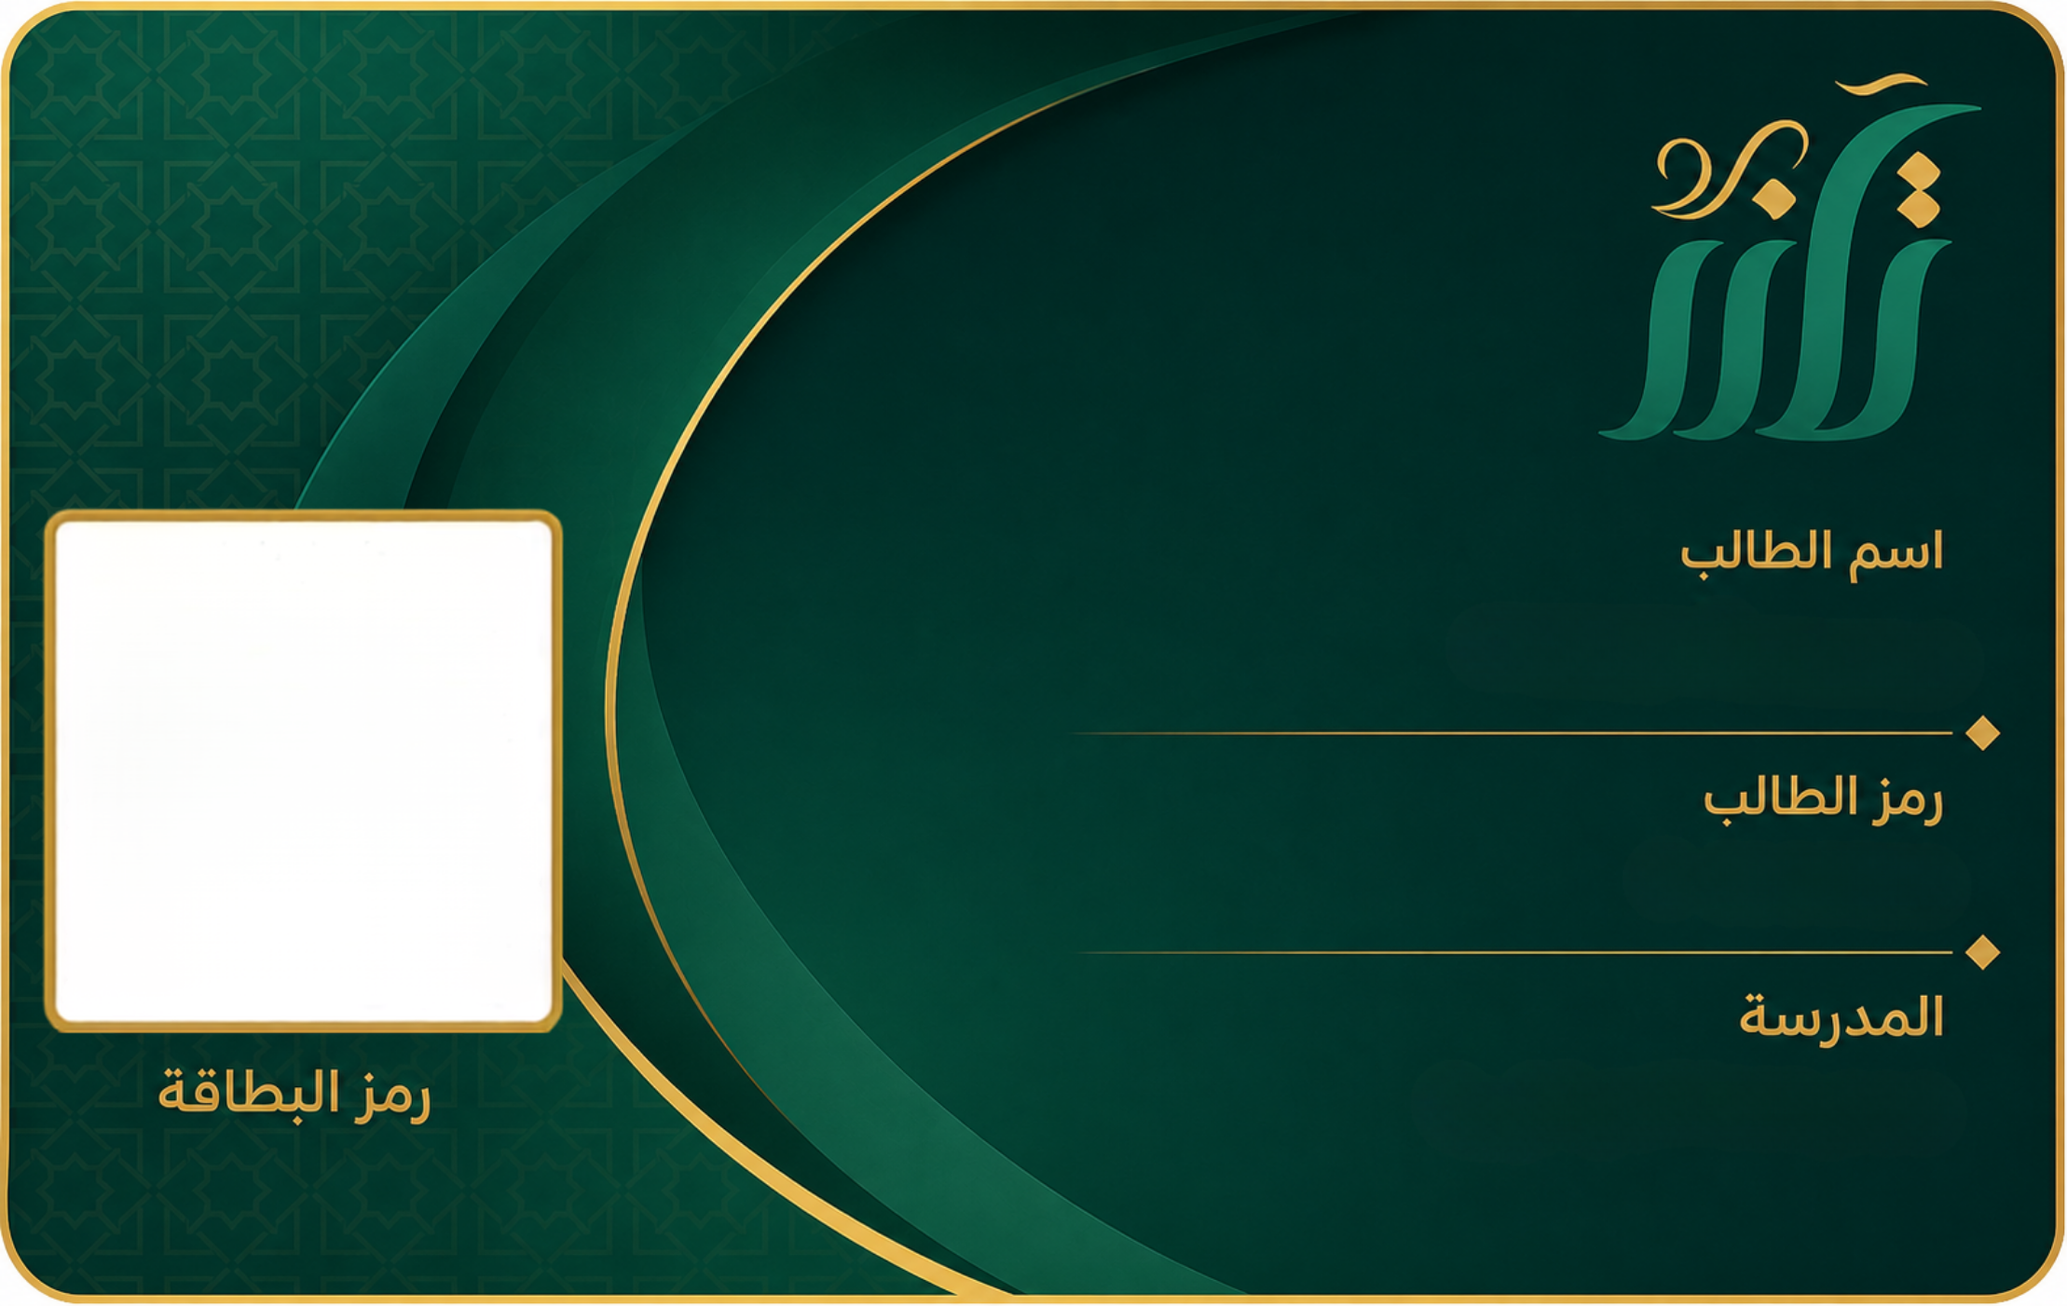
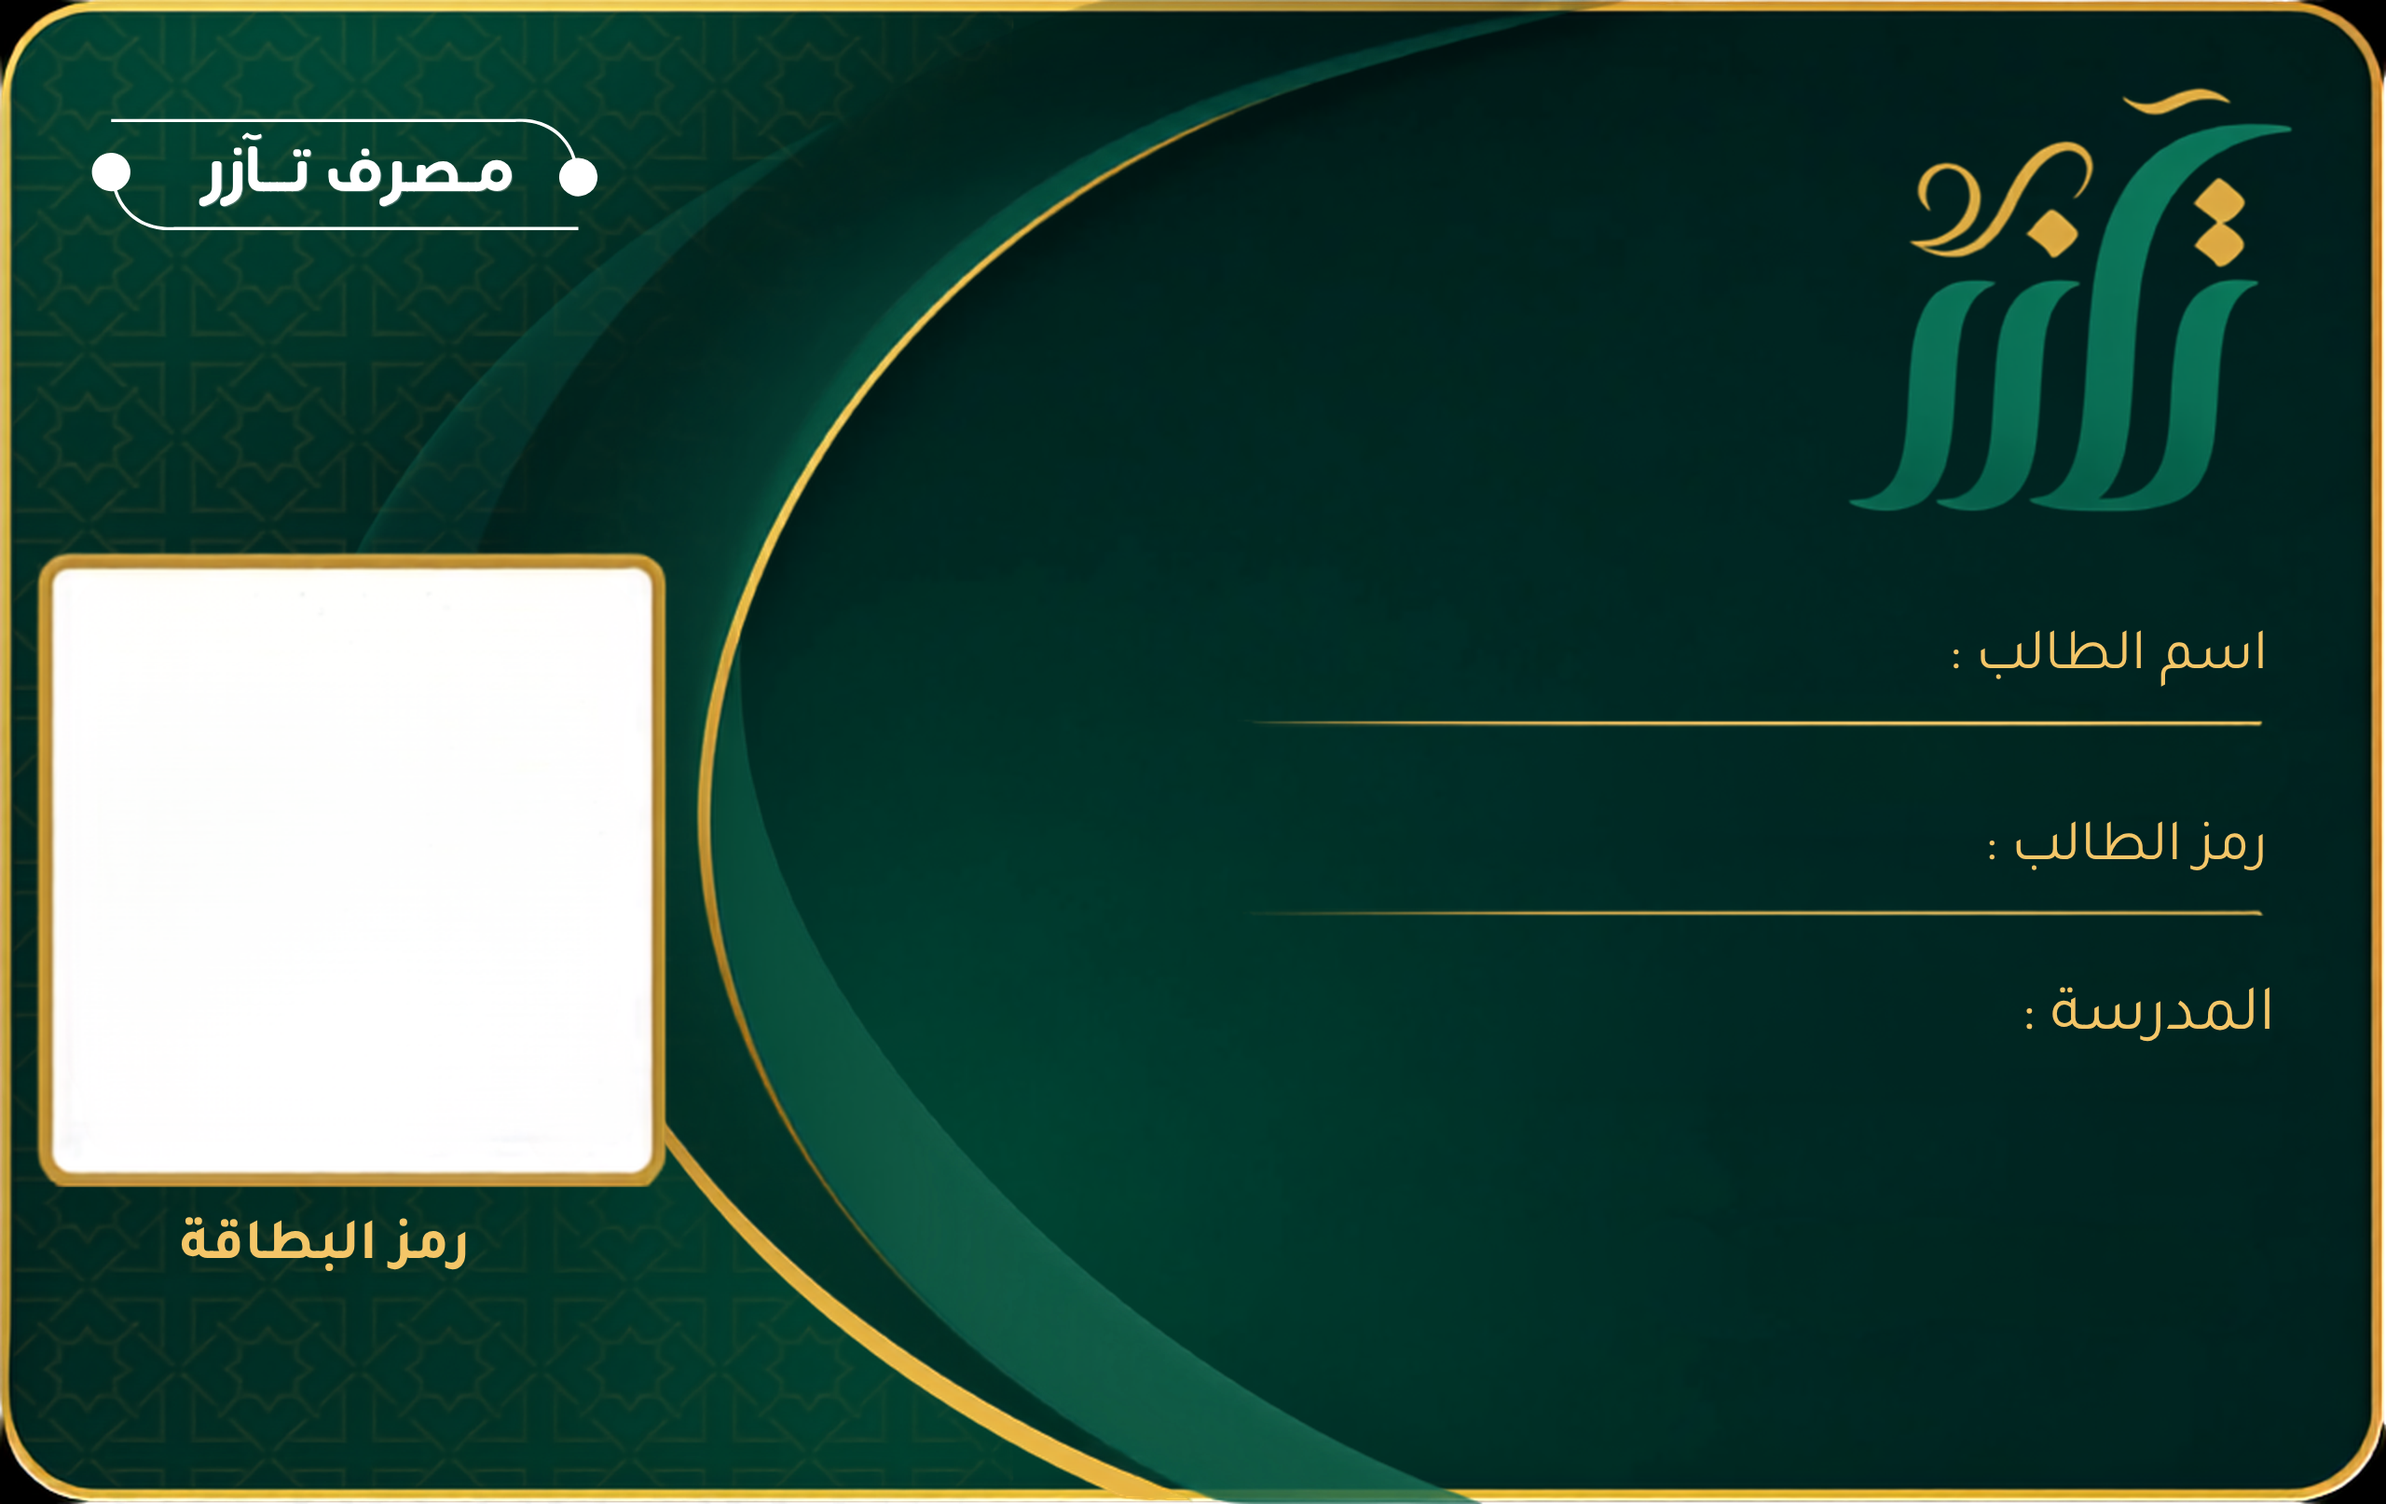
Update student card template alignment

diff --git a/frontend/app/styles.css b/frontend/app/styles.css
@@ -58,11 +58,11 @@ tbody tr:hover{background:#fbf8ef}
 .student-print-card:before,.student-print-card:after{display:none}
 .student-card-background{position:absolute;z-index:0;inset:0;width:100%;height:100%;object-fit:fill;display:block;pointer-events:none}
 .student-card-info{position:absolute;z-index:2;inset:0;display:block;min-width:0;text-align:right;direction:rtl;text-shadow:0 2px 8px rgba(0,0,0,.3)}
-.student-card-info strong{position:absolute;top:24.7mm;right:6.2mm;max-width:47mm;color:#fff;font-size:var(--student-name-size,14.5pt);line-height:1.08;font-weight:900;white-space:nowrap;overflow:hidden;text-overflow:ellipsis}
-.student-card-info b{position:absolute;top:32.9mm;right:6.2mm;color:#fff;font-size:11.8pt;line-height:1.05;font-weight:900;direction:ltr;text-align:right;white-space:nowrap}
-.student-card-info span{position:absolute;top:40.9mm;right:6.2mm;max-width:48mm;color:#fff;font-size:7.2pt;font-weight:900;line-height:1.12;white-space:nowrap;overflow:hidden;text-overflow:ellipsis}
-.student-card-qr{position:absolute;z-index:2;left:2.8mm;top:21.9mm;display:block;direction:rtl;background:transparent;border:0;border-radius:0;padding:0}
-.qr-code{display:block;width:19.6mm;height:19.6mm;border:0;border-radius:0;background:#fff;box-shadow:none}
+.student-card-info strong{position:absolute;top:25.4mm;right:6.4mm;max-width:47.5mm;color:#fff;font-size:var(--student-name-size,14.5pt);line-height:1.08;font-weight:900;white-space:nowrap;overflow:hidden;text-overflow:ellipsis}
+.student-card-info b{position:absolute;top:34.2mm;right:6.4mm;color:#fff;font-size:12pt;line-height:1.05;font-weight:900;direction:ltr;text-align:right;white-space:nowrap}
+.student-card-info span{position:absolute;top:43.2mm;right:6.4mm;max-width:49mm;color:#fff;font-size:7.7pt;font-weight:900;line-height:1.12;white-space:nowrap;overflow:hidden;text-overflow:ellipsis}
+.student-card-qr{position:absolute;z-index:2;left:2.5mm;top:20.3mm;display:block;direction:rtl;background:transparent;border:0;border-radius:0;padding:0}
+.qr-code{display:block;width:20.2mm;height:20.2mm;border:0;border-radius:0;background:#fff;box-shadow:none}
 .student-card-qr span{display:none}
 .barcode-downloads{position:relative;z-index:2;display:flex;gap:6px;justify-content:center;flex-wrap:wrap}
 .barcode-downloads button{padding:7px 10px;font-size:11px;background:#fff;color:var(--green);border:1px solid rgba(216,189,121,.7);box-shadow:0 8px 18px rgba(20,52,42,.1)}
@@ -163,4 +163,4 @@ td input[type=checkbox]{width:20px;height:20px;accent-color:var(--green)}
 @media(max-width:1000px){.cards{grid-template-columns:repeat(2,minmax(150px,1fr))}.entry,.entry.students{grid-template-columns:repeat(2,1fr)}}
 @media(max-width:1000px){.report-grid,.alert-grid,.export-grid,.two-columns,.bulk-actions{grid-template-columns:1fr}.pos-summary{grid-template-columns:1fr}.dashboard-cards,.alert-summary{grid-template-columns:repeat(2,minmax(150px,1fr))}.chart-card{overflow-x:auto}.bar-item{min-width:80px}}
 @media(max-width:700px){main{display:block}aside{position:relative;width:auto;height:auto;padding:18px}.brand{min-height:124px}.brand img{max-height:112px}nav{grid-template-columns:repeat(2,1fr);margin-top:16px}nav a{justify-content:center;background:rgba(255,255,255,.1)}section{padding:18px}.management{padding:0}header{display:grid}.cards{grid-template-columns:1fr}.entry,.entry.students{grid-template-columns:1fr}table{display:block;overflow-x:auto;font-size:12px}th,td{padding:10px}.brand.compact img{width:176px;max-height:148px}.pos h1{font-size:28px}}
-@media print{body{background:#fff}aside,header,form,[role=status],button{display:none!important}section{padding:0}.management{max-width:none}table,thead,tbody,tr,td{display:block;border:0!important}th,td:not(:has(.student-print-card)){display:none!important}tr{break-inside:avoid;float:right;margin:0 0 4mm 4mm}.barcode-card{width:85.6mm;min-width:0;max-width:none}.student-print-card{width:85.6mm;height:54mm;min-width:0;box-shadow:none;border-radius:4mm;padding:0}.student-card-qr{top:21.9mm;left:2.8mm}.barcode-downloads{display:none!important}.token{white-space:normal}}
+@media print{body{background:#fff}aside,header,form,[role=status],button{display:none!important}section{padding:0}.management{max-width:none}table,thead,tbody,tr,td{display:block;border:0!important}th,td:not(:has(.student-print-card)){display:none!important}tr{break-inside:avoid;float:right;margin:0 0 4mm 4mm}.barcode-card{width:85.6mm;min-width:0;max-width:none}.student-print-card{width:85.6mm;height:54mm;min-width:0;box-shadow:none;border-radius:4mm;padding:0}.student-card-qr{top:20.3mm;left:2.5mm}.barcode-downloads{display:none!important}.token{white-space:normal}}

diff --git a/frontend/app/components/Barcode.tsx b/frontend/app/components/Barcode.tsx
@@ -127,9 +127,9 @@ async function buildCardCanvas(input: CardRenderInput) {
     await document.fonts.load(`900 ${input.nameFontSize}px Tajawal`);
   }
 
-  const qrUrl = await QRCode.toDataURL(input.value, { width: 512, margin: 2, errorCorrectionLevel: 'M' });
+  const qrUrl = await QRCode.toDataURL(input.value, { width: 640, margin: 1, errorCorrectionLevel: 'M' });
   const qrImage = await loadImage(qrUrl);
-  context.drawImage(qrImage, 28, 219, 196, 196);
+  context.drawImage(qrImage, 25, 203, 202, 202);
 
   context.direction = 'rtl';
   context.textAlign = 'right';
@@ -138,15 +138,17 @@ async function buildCardCanvas(input: CardRenderInput) {
   context.shadowOffsetY = 2;
   context.fillStyle = '#ffffff';
   context.font = `900 ${input.nameFontSize}px Tajawal, Tahoma, Arial, sans-serif`;
-  context.fillText(input.studentName, 790, 288, 390);
+  context.fillText(input.studentName, 792, 296, 405);
   context.fillStyle = '#ffffff';
   context.font = '900 40px Tahoma, Arial, sans-serif';
   context.direction = 'ltr';
   context.textAlign = 'right';
-  context.fillText(input.studentCode, 790, 378, 330);
+  context.fillText(input.studentCode, 792, 387, 350);
   context.fillStyle = '#ffffff';
-  context.font = '900 22px Tahoma, Arial, sans-serif';
-  context.fillText(input.schoolName, 790, 463, 450);
+  context.font = '900 24px Tajawal, Tahoma, Arial, sans-serif';
+  context.direction = 'rtl';
+  context.textAlign = 'right';
+  context.fillText(input.schoolName, 792, 474, 470);
   return canvas;
 }
 
@@ -197,7 +199,7 @@ export default function Barcode(props: BarcodeProps) {
 
   useEffect(() => {
     let active = true;
-    void QRCode.toDataURL(value, { width: 512, margin: 2, errorCorrectionLevel: 'M' }).then(url => {
+    void QRCode.toDataURL(value, { width: 640, margin: 1, errorCorrectionLevel: 'M' }).then(url => {
       if (active) setQrUrl(url);
     });
     return () => { active = false; };
